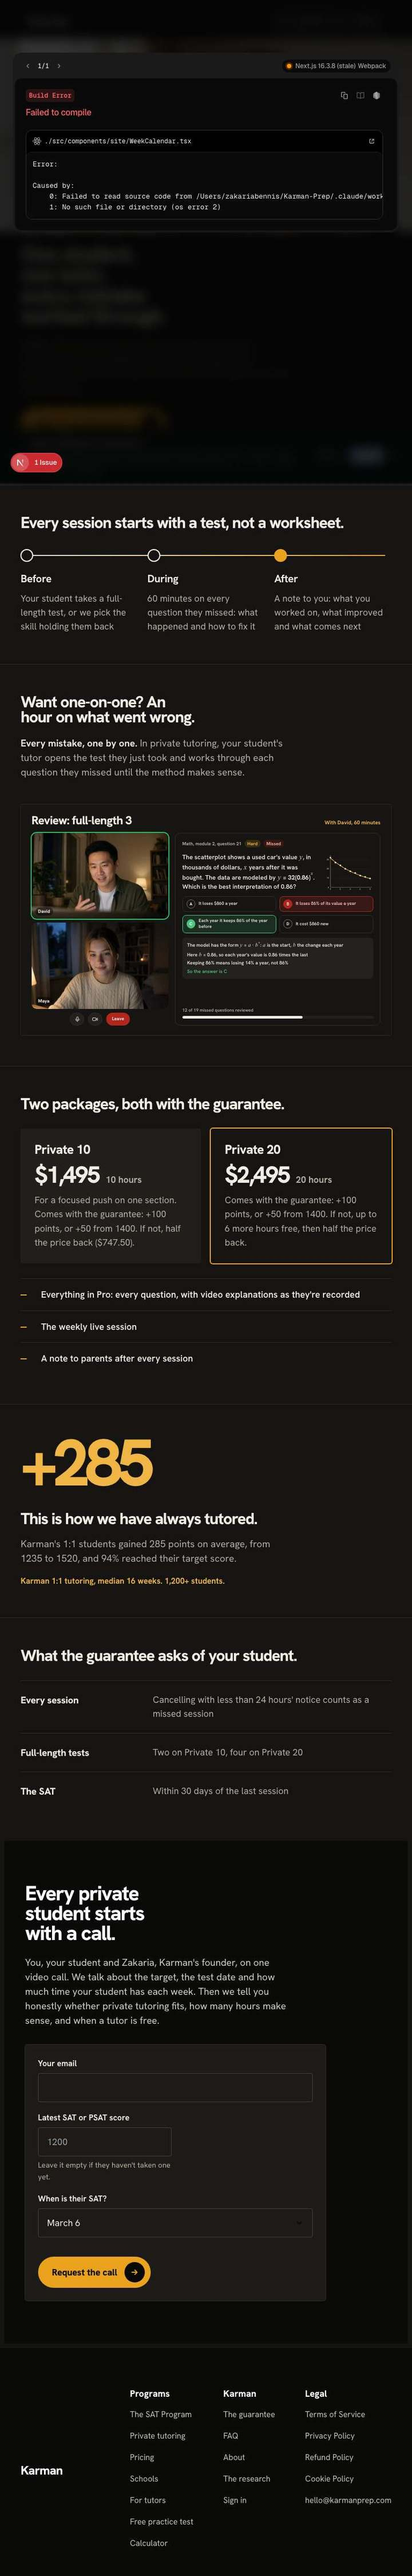
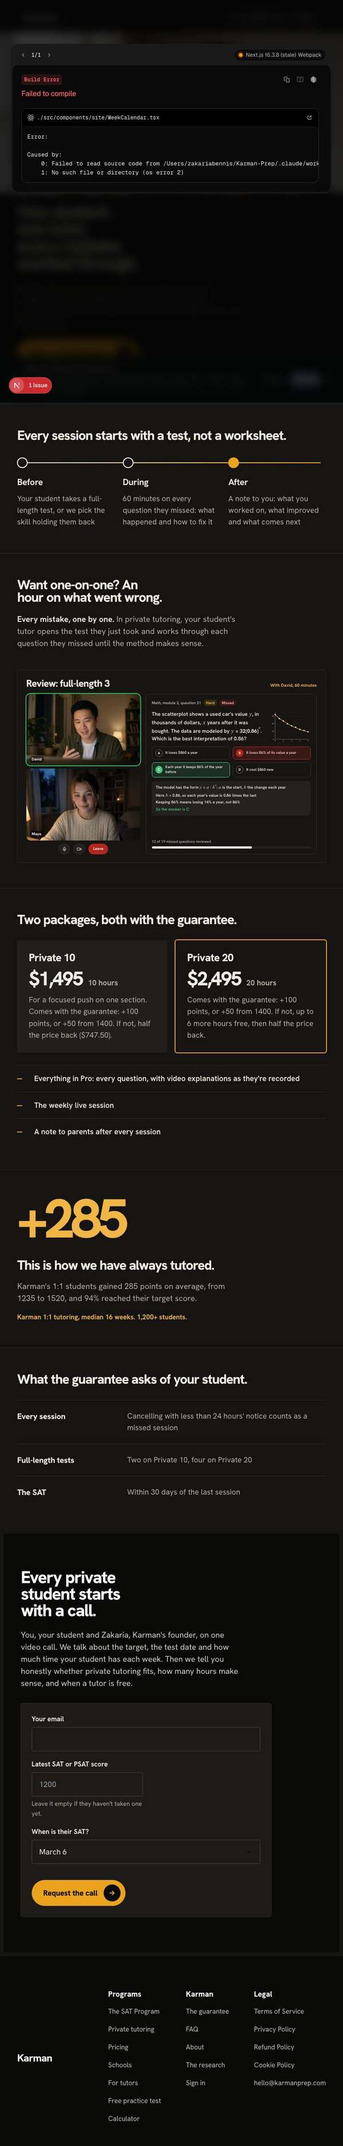
Site cards: portal hints (skill squares, lining figures) and the report
List marks on the plan cards and inner pages become the portal's small skill
squares, and the whole site sets Hanken Grotesk with lining figures. Report and
before/after screenshots for every page at 390, 768 and 1440, light and dark.

Changed region(s): [[0.51, 0.3432, 0.54, 0.3744]]

diff --git a/src/app/(site)/styles/inner.css b/src/app/(site)/styles/inner.css
@@ -124,7 +124,8 @@
 .ks .i-list { display: grid; align-content: start; }
 .ks .i-list li { display: grid; grid-template-columns: 26px 1fr; gap: 12px; padding: 16px 0; border-top: 1px solid var(--line); font-size: 17px; font-weight: 600; }
 .ks .i-list .k-ico { width: 22px; height: 22px; color: var(--marigold-ink); margin-top: 1px; }
-.ks .i-list .mk { width: 12px; height: 2px; border-radius: 2px; background: var(--marigold); margin-top: .75em; }
+/* the portal's skill square marks each line (a hint of the app, founder 8 November) */
+.ks .i-list .mk { width: 9px; height: 9px; border-radius: 2px; background: var(--marigold); margin-top: .5em; }
 .ks .i-list.no .k-ico { transform: rotate(45deg); color: #9c1f18; }
 .ks .i-list.no li span { text-decoration: line-through; text-decoration-color: rgba(156,31,24,.55); text-decoration-thickness: 1.5px; }
 .ks .i-list.inline { grid-template-columns: repeat(3, minmax(0, 1fr)); gap: 0 24px; margin-top: 28px; }

diff --git a/src/app/(site)/styles/film.css b/src/app/(site)/styles/film.css
@@ -44,7 +44,7 @@
 }
 :where(.ks) * { box-sizing: border-box; margin: 0; padding: 0; }
 .ks { background: var(--night); }
-.ks { color: var(--ink); font: 17px/1.55 var(--font-hanken), system-ui, sans-serif; -webkit-font-smoothing: antialiased; overflow-x: clip; }
+.ks { color: var(--ink); font: 17px/1.55 var(--font-hanken), system-ui, sans-serif; font-variant-numeric: lining-nums; -webkit-font-smoothing: antialiased; overflow-x: clip; }
 .ks a { color: inherit; }
 .ks img, .ks video, .ks canvas, .ks svg { display: block; }
 .ks ol, .ks ul { list-style: none; }

diff --git a/src/app/(site)/styles/pricing.css b/src/app/(site)/styles/pricing.css
@@ -195,11 +195,11 @@
 }
 .ks .plan li::before {
   content: "";
-  width: 10px;
-  height: 2px;
+  width: 9px;
+  height: 9px;
   border-radius: 2px;
   background: var(--marigold);
-  margin-top: 0.7em;
+  margin-top: 0.42em;
 }
 .ks .plan .ghost {
   margin-top: auto;

diff --git a/docs/overnight/reports/site-cards.md b/docs/overnight/reports/site-cards.md
@@ -1,0 +1,114 @@
+# Site cards (site-cards session)
+
+Branch: `claude/overnight-site-cards-4137d2`, cut from `claude/overnight-ship`. Nothing deployed, nothing pushed.
+
+## What you asked for, and what is done
+
+**1. The background film.** Untouched. The film, its timing, its scrim and the way it lifts toward
+the paper are exactly as before (`HomeFilm.tsx` is not changed).
+
+**2. The cards, the way the painted mock does it.** Done on the home page, and the shared parts on
+pricing, program, private tutoring, schools, for tutors, guarantee and FAQ.
+
+- Home page: every word now sits on a tinted panel with 4px corners. The panels stand in one column
+  left of centre, so the film keeps running beside and between them, with the same 16px gap
+  everywhere. The opening and the closing words are on panels too, instead of straight on the film.
+- Calmer hierarchy: headings are smaller (the opening line from up to 124px down to 84px, section
+  headings from 80px to 56px). The product rows are split by thin lines instead of big empty gaps.
+  The giant "+100 points" and "+285" are about half their old size.
+- Contrast is checked by calculation, not by eye: `node scripts/site/card-contrast.mjs`. Each text
+  colour is checked on a panel with pure black and with pure white film behind it, the two worst
+  cases, in light and dark. All pass AA. The lowest is 5.5 to 1. To get there, the small marigold
+  text in light mode is a little darker (#7a4e06, was #94600a).
+- Nothing sticky over text: the header now scrolls away with the page, and the phone "dock" button
+  that slid up at the bottom of phone screens is gone, on every page.
+- One call to action per screen: "See pricing" in the opening is a plain text link now, not a
+  second outlined button.
+- The study tools are a 2 x 2 grid (one column on phones). In the narrower column the row of four
+  would have scrolled sideways, so the carousel and its arrows are deleted.
+- Inner pages have no film, so their cards (plan cards, form cards, the guarantee) got the 4px
+  corner, a hairline, calmer spacing and smaller headings.
+- Sections, order and words are the same as before.
+
+**3. Real portal screens.** Done on the home page. Captured from the real app (local database,
+headless browser) and placed in our code-drawn iPhone and MacBook frames:
+
+- "Ten questions a day": the student's Today screen, with "Start Your Daily 10" and tonight's
+  homework (light and dark).
+- "Your tutor starts every session": the Progress screen, with one predicted score (1320) and the
+  skills ring (light and dark).
+- "The next session, what's due": the Today screen on a laptop (dark only).
+- The drawn Daily 10 demo, the drawn parent phone and the drawn week calendar are deleted.
+
+**4. Small hints of the portal design.** Added:
+
+- The portal's skill squares replace the tick marks in the guarantee's two lists (design rule 16
+  says no checkmark bullets) and the dashes in the plan and inner-page lists.
+- 4px squared corners on every panel and card.
+- Hanken Grotesk with lining figures across the site, and even-width figures on the big numbers.
+
+Hints that could come next (you pick):
+
+- Rings for progress figures, for example the "94% reached their target" line on private tutoring.
+- 4px corners on the buttons too (they are still the round pills of the live look).
+- The painting's tint in the panels (the mock takes the panel colour from the day's painting).
+- Young Serif for the big headlines, as in the portal and the mock.
+- The Library screen with skill squares wherever skills are mentioned (it captures cleanly from the
+  app; I did not commit it because no page uses it yet).
+
+## Screenshots
+
+`docs/overnight/reports/site-cards/`:
+
+- `home-before-live-1440-{dark,light}.jpg`: karmanprep.com today.
+- `home-after-{390,768,1440}-{dark,light}.jpg`: the home page now.
+- `<page>-after-{390,768,1440}-{dark,light}.jpg` for pricing, program, private tutoring, schools,
+  for tutors, guarantee and FAQ.
+
+In full-page screenshots the film shows only at the very top, because it is fixed to the screen. In
+a browser it runs behind the whole page, beside the panels.
+
+## How I checked it
+
+- Every page at 390, 768 and 1440 wide, light and dark, in a headless browser (never the app's
+  browser pane). No page scrolls sideways at any width.
+- Clicked in a headless browser: the phone menu opens and closes with Escape, "See pricing" opens
+  /pricing, every portal picture loads, the header is gone once the reader scrolls down, no dock.
+- `npx tsc --noEmit` clean. `npm run lint`: no errors. `npm run check:sizes`: OK.
+  `npm run format:check`: only three docs files that were already failing before my work.
+- Unit tests: 9,742 pass. Two failures, in the calculator and figure tests, which I did not touch;
+  each passes when run on its own (they time out when the machine is busy).
+- Contrast script above.
+
+## Decisions I made
+
+- The panels are 92% solid with a soft blur, not fully see-through. At that strength every text
+  colour passes AA whatever frame of the film is behind it.
+- The header became a slim tinted bar at the top that scrolls away, as in the mock.
+- I removed the phone dock everywhere, because it covered text at the bottom of the screen.
+- The quiz screen was captured but I did not use it: the question on it comes from the imported
+  bank and reads like College Board material (rule 45 says only Karman originals in pictures), and
+  its top bar overlaps at phone width (a bug in the quiz screen, reported below).
+- The Daily 10 ending could not be captured in time (the test run did not move past question 1).
+- The parent week view was nearly empty for the seeded parent (no homework), so the parents' row
+  shows the student's Progress screen, which the copy says parents also see.
+
+## For you to decide
+
+- The device photos (`p-*.webp`) still show the old drawn Daily 10 and parent screens on the
+  phones. `scripts/site/device-photos.mjs` now points at the real screens; re-running it would
+  rebuild the photos with real Karman screens.
+- The schools page says "7 Difficulty levels". Rule 39 says no difficulty levels on marketing
+  pages. I kept the words as asked.
+- Pricing, program and private tutoring name Zakaria in the visible copy ("Book a call with
+  Zakaria"). Rule 40 says only the About page names him. Words kept as asked.
+
+## Found along the way
+
+- The quiz screen's top bar overlaps at phone width (440px): the "Today" pill sits on top of the
+  skill name and the palette button on the top-right buttons.
+
+## Not done
+
+- Real screens on the program and private tutoring pages: the live class and the one-on-one
+  review are still drawn in code, because the portal has no matching screen to capture yet.
